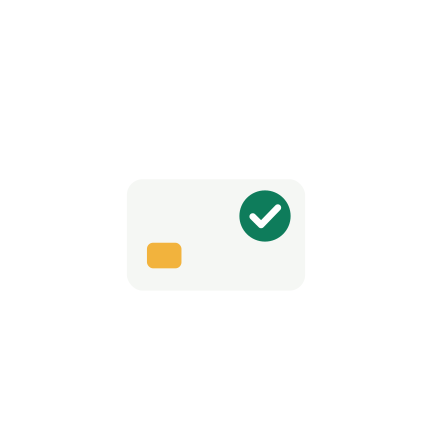
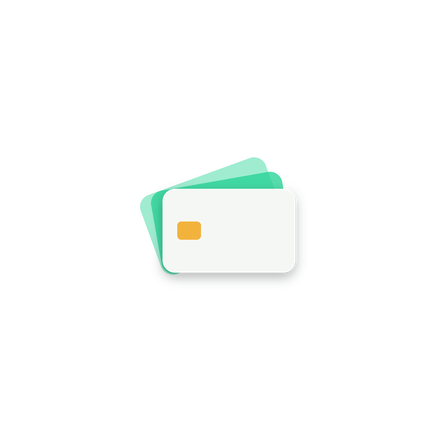
Cambia el icono a tres tarjetas en abanico, con un solo estilo
El icono anterior se veía genérico. Ahora son tres tarjetas en proporción
real, en abanico; al frente, blanca con sombra y su chip, la que Tino
elige, que se lee sobre el jade y sobre fondos claros u oscuros. Un solo
script genera desde la misma geometría los iconos de las tiendas, las
capas de Android, el splash y los SVG con y sin fondo; LogoTino dibuja la
misma figura con los roles nuevos logoAtras y logoChip (D94).

Changed region(s): [[0.3009, 0.3611, 0.6921, 0.662]]

diff --git a/src/diseno/LogoTino.tsx b/src/diseno/LogoTino.tsx
@@ -1,17 +1,23 @@
-import Svg, { Circle, Path, Rect } from 'react-native-svg';
+import Svg, { Rect } from 'react-native-svg';
 import { useTema } from './useTema';
 
-// El ícono de Tino sin su fondo verde (fuente: assets/iconos/fuente-icono.svg), con los colores
-// del tema para que se lea en claro y oscuro: la tarjeta elegida en jade, las demás detrás.
+// El ícono de Tino sin su fondo verde (decisión D94; geometría de herramientas/iconos/generar_iconos.py):
+// tres tarjetas en abanico, en el mismo estilo que el ícono de las tiendas. Al frente, blanca y con su
+// chip, la tarjeta que Tino elige; detrás, las demás en jade vivo. Se lee en claro y en oscuro.
+const TARJETA = { x: 138, y: 212, width: 236, height: 149, rx: 22 };
+const PIVOTE = '168 352';
+
 export function LogoTino({ tamano = 64 }: { tamano?: number }) {
   const tema = useTema();
   return (
-    <Svg width={tamano} height={tamano} viewBox="86 96 340 340" accessibilityElementsHidden importantForAccessibility="no-hide-descendants">
-      <Rect x={118} y={126} width={300} height={188} rx={26} fill={tema.color.primario} fillOpacity={0.28} transform="rotate(-9 268 220)" />
-      <Rect x={96} y={182} width={320} height={200} rx={28} fill={tema.color.primario} />
-      <Rect x={132} y={296} width={62} height={46} rx={11} fill={tema.color.recompensaPunto} />
-      <Circle cx={344} cy={248} r={46} fill={tema.color.sobrePrimario} />
-      <Path d="M322 249l15 15 30-31" fill="none" stroke={tema.color.primario} strokeWidth={12} strokeLinecap="round" strokeLinejoin="round" />
+    <Svg width={tamano} height={tamano} viewBox="83 110 300 300" accessibilityElementsHidden importantForAccessibility="no-hide-descendants">
+      <Rect {...TARJETA} fill={tema.color.logoAtras} fillOpacity={0.45} transform={`rotate(-20 ${PIVOTE})`} />
+      <Rect {...TARJETA} fill={tema.color.logoAtras} fillOpacity={0.8} transform={`rotate(-10 ${PIVOTE})`} />
+      {/* Sombra en dos capas: los filtros de react-native-svg no se dibujan bien en Android. */}
+      <Rect {...TARJETA} y={TARJETA.y + 10} fill={tema.color.velo} fillOpacity={0.08} />
+      <Rect {...TARJETA} y={TARJETA.y + 5} fill={tema.color.velo} fillOpacity={0.12} />
+      <Rect {...TARJETA} fill={tema.color.fondoLogo} />
+      <Rect x={164} y={270} width={42} height={32} rx={7} fill={tema.color.logoChip} />
     </Svg>
   );
 }

diff --git a/herramientas/iconos/generar_iconos.py b/herramientas/iconos/generar_iconos.py
@@ -1,0 +1,163 @@
+# Genera todos los iconos de Tino desde una sola geometría (decisión D94): tres tarjetas en
+# abanico, en proporción real (85.6 × 54 mm); al frente la que Tino elige, con su chip. Un solo
+# estilo en todas partes: la del frente blanca con sombra, que se lee sobre el jade, sobre fondos
+# claros y sobre oscuros.
+#
+# Uso, desde la raíz del repositorio: python herramientas/iconos/generar_iconos.py (requiere Pillow).
+# Escribe en assets/iconos/: fuente-icono.svg, tino-tarjetas.svg, tino-tarjetas-monocromo.svg,
+# tino-tarjetas.png, app-store-1024.png, play-store-512.png, android-fondo.png,
+# android-primer-plano.png, android-monocromo.png y splash.png.
+import math
+from PIL import Image, ImageDraw, ImageFilter
+
+DESTINO = 'assets/iconos'
+
+# Colores base de src/diseno/tokens.json.
+JADE_ARRIBA, JADE_ABAJO = '#12916A', '#0B6B4E'  # degradado del fondo
+JADE_VIVO = '#2BD49A'  # jadeVivo
+ORO = '#F2B33D'        # oro
+PAPEL = '#F5F7F4'      # papel
+TINTA = '#0D1B16'      # tinta
+
+# Geometría en un lienzo de 512: la tarjeta, su chip y el giro de las dos de atrás alrededor de
+# la esquina inferior izquierda, como cartas en la mano.
+TARJETA = (138, 212, 236, 149)  # x, y, ancho, alto (236 / 149 ≈ 85.6 / 54)
+RADIO = 22
+CHIP = (164, 270, 42, 32, 7)    # x, y, ancho, alto, radio
+PIVOTE = (168, 352)
+ATRAS = [(-20, 0.45), (-10, 0.8)]  # grados y opacidad, de la más lejana a la más cercana
+
+
+def esquinas(angulo):
+    x, y, w, h = TARJETA
+    a = math.radians(angulo)
+    px, py = PIVOTE
+    for cx, cy in ((x, y), (x + w, y), (x, y + h), (x + w, y + h)):
+        dx, dy = cx - px, cy - py
+        yield px + dx * math.cos(a) - dy * math.sin(a), py + dx * math.sin(a) + dy * math.cos(a)
+
+
+# Caja del abanico, para centrarlo en el lienzo.
+_puntos = [p for angulo in [0] + [a for a, _ in ATRAS] for p in esquinas(angulo)]
+CAJA = (min(p[0] for p in _puntos), min(p[1] for p in _puntos), max(p[0] for p in _puntos), max(p[1] for p in _puntos))
+CENTRO = ((CAJA[0] + CAJA[2]) / 2, (CAJA[1] + CAJA[3]) / 2)
+
+
+def rgba(h, a=1.0):
+    return (int(h[1:3], 16), int(h[3:5], 16), int(h[5:7], 16), int(round(a * 255)))
+
+
+# ---------- SVG ----------
+
+def svg_tarjetas(frente, atras, chip, sombra):
+    """Las tres tarjetas centradas en el lienzo de 512."""
+    x, y, w, h = TARJETA
+    cx, cy, cw, ch, cr = CHIP
+    mover = f'translate({256 - CENTRO[0]:.1f} {256 - CENTRO[1]:.1f})'
+    filas = [f'<g transform="{mover}">']
+    for angulo, opacidad in ATRAS:
+        filas.append(f'  <rect x="{x}" y="{y}" width="{w}" height="{h}" rx="{RADIO}" fill="{atras}" fill-opacity="{opacidad}" transform="rotate({angulo} {PIVOTE[0]} {PIVOTE[1]})"/>')
+    filas.append(f'  <g{" filter=\"url(#sombra)\"" if sombra else ""}>')
+    filas.append(f'    <rect x="{x}" y="{y}" width="{w}" height="{h}" rx="{RADIO}" fill="{frente}"/>')
+    if chip:
+        filas.append(f'    <rect x="{cx}" y="{cy}" width="{cw}" height="{ch}" rx="{cr}" fill="{chip}"/>')
+    filas.append('  </g>')
+    filas.append('</g>')
+    return '\n'.join('  ' + f for f in filas)
+
+
+def escribir_svg():
+    sombra = (f'    <filter id="sombra" x="-30%" y="-30%" width="160%" height="170%">\n'
+              f'      <feDropShadow dx="0" dy="8" stdDeviation="10" flood-color="{TINTA}" flood-opacity="0.32"/>\n'
+              f'    </filter>\n')
+    fondo = (f'    <linearGradient id="fondo" x1="0" y1="0" x2="0" y2="1">\n'
+             f'      <stop offset="0" stop-color="{JADE_ARRIBA}"/>\n      <stop offset="1" stop-color="{JADE_ABAJO}"/>\n'
+             f'    </linearGradient>\n')
+    cabeza = '<svg xmlns="http://www.w3.org/2000/svg" viewBox="0 0 512 512" width="512" height="512">\n'
+    with open(f'{DESTINO}/fuente-icono.svg', 'w', encoding='utf-8') as f:
+        f.write(cabeza + '  <!-- Icono de Tino (D94). Lo genera herramientas/iconos/generar_iconos.py: no editar a mano. -->\n'
+                f'  <defs>\n{fondo}{sombra}  </defs>\n  <rect width="512" height="512" fill="url(#fondo)"/>\n'
+                + svg_tarjetas(PAPEL, JADE_VIVO, ORO, True) + '\n</svg>\n')
+    with open(f'{DESTINO}/tino-tarjetas.svg', 'w', encoding='utf-8') as f:
+        f.write(cabeza + '  <!-- Tarjetas de Tino sin fondo (D94). Generado: no editar a mano. -->\n'
+                f'  <defs>\n{sombra}  </defs>\n' + svg_tarjetas(PAPEL, JADE_VIVO, ORO, True) + '\n</svg>\n')
+    with open(f'{DESTINO}/tino-tarjetas-monocromo.svg', 'w', encoding='utf-8') as f:
+        f.write(cabeza + '  <!-- Tarjetas de Tino en una sola tinta (D94). Generado: no editar a mano. -->\n'
+                + svg_tarjetas('#FFFFFF', '#FFFFFF', None, False) + '\n</svg>\n')
+
+
+# ---------- PNG ----------
+
+S = 4  # sobremuestreo para bordes suaves
+
+
+def tarjetas(lado, escala, frente, atras, chip, sombra, centro=None):
+    """Capa RGBA de lado×lado con el abanico; `escala` es el ancho del icono de 512 en píxeles."""
+    N = lado * S
+    k = escala * S / 512
+    ox = (centro[0] if centro else lado / 2) * S - CENTRO[0] * k
+    oy = (centro[1] if centro else lado / 2) * S - CENTRO[1] * k
+    x, y, w, h = TARJETA
+
+    def una(color, opacidad=1.0):
+        capa = Image.new('RGBA', (N, N), (0, 0, 0, 0))
+        ImageDraw.Draw(capa).rounded_rectangle([ox + x * k, oy + y * k, ox + (x + w) * k, oy + (y + h) * k], radius=RADIO * k, fill=rgba(color, opacidad))
+        return capa
+
+    pivote = (ox + PIVOTE[0] * k, oy + PIVOTE[1] * k)
+    final = Image.new('RGBA', (N, N), (0, 0, 0, 0))
+    for angulo, opacidad in ATRAS:
+        # rotate() de PIL gira en sentido contrario al SVG.
+        final = Image.alpha_composite(final, una(atras, opacidad).rotate(-angulo, center=pivote, resample=Image.BICUBIC))
+    frente_capa = una(frente)
+    if chip:
+        cx, cy, cw, ch, cr = CHIP
+        ImageDraw.Draw(frente_capa).rounded_rectangle([ox + cx * k, oy + cy * k, ox + (cx + cw) * k, oy + (cy + ch) * k], radius=cr * k, fill=rgba(chip))
+    if sombra:
+        alfa = frente_capa.split()[3].point(lambda a: int(a * 0.32))
+        sombra_capa = Image.new('RGBA', (N, N), rgba(TINTA, 0))
+        sombra_capa.putalpha(alfa)
+        sombra_capa = sombra_capa.transform((N, N), Image.AFFINE, (1, 0, 0, 0, 1, -8 * k)).filter(ImageFilter.GaussianBlur(10 * k))
+        final = Image.alpha_composite(final, sombra_capa)
+    final = Image.alpha_composite(final, frente_capa)
+    return final.resize((lado, lado), Image.LANCZOS)
+
+
+def degradado(lado):
+    arriba, abajo = rgba(JADE_ARRIBA), rgba(JADE_ABAJO)
+    fondo = Image.new('RGBA', (lado, lado))
+    d = ImageDraw.Draw(fondo)
+    for fila in range(lado):
+        t = fila / (lado - 1)
+        d.line([(0, fila), (lado, fila)], fill=tuple(int(arriba[i] + (abajo[i] - arriba[i]) * t) for i in range(4)))
+    return fondo
+
+
+def icono_con_fondo(lado):
+    return Image.alpha_composite(degradado(lado), tarjetas(lado, lado, PAPEL, JADE_VIVO, ORO, True)).convert('RGB')
+
+
+def escribir_png():
+    icono_con_fondo(1024).save(f'{DESTINO}/app-store-1024.png', optimize=True)  # sin transparencia ni esquinas
+    icono_con_fondo(512).save(f'{DESTINO}/play-store-512.png', optimize=True)
+    tarjetas(1024, 1024, PAPEL, JADE_VIVO, ORO, True).save(f'{DESTINO}/tino-tarjetas.png', optimize=True)
+
+    # Icono adaptativo de Android: lienzo de 108 dp (432 px a 4x) del que se ven 72 dp; el icono de
+    # 512 se ajusta a esos 72 dp, así el abanico queda dentro de la zona segura de 66 dp.
+    visible = 432 * 72 / 108
+    degradado(432).save(f'{DESTINO}/android-fondo.png', optimize=True)
+    tarjetas(432, visible, PAPEL, JADE_VIVO, ORO, True).save(f'{DESTINO}/android-primer-plano.png', optimize=True)
+    tarjetas(432, visible, '#FFFFFF', '#FFFFFF', None, False).save(f'{DESTINO}/android-monocromo.png', optimize=True)
+
+    # Splash (Android 12+): recorta en un círculo de 2/3 del lienzo; el abanico tiene que caber con aire.
+    lado_caja = max(CAJA[2] - CAJA[0], CAJA[3] - CAJA[1])
+    diagonal = math.hypot(CAJA[2] - CAJA[0], CAJA[3] - CAJA[1])
+    escala = 1024 * (2 / 3) * 0.9 / diagonal * 512
+    tarjetas(1024, escala, PAPEL, JADE_VIVO, ORO, True).save(f'{DESTINO}/splash.png', optimize=True)
+    assert lado_caja  # la caja nunca es vacía
+
+
+if __name__ == '__main__':
+    escribir_svg()
+    escribir_png()
+    print('Iconos generados en', DESTINO)

diff --git a/docs/progreso.md b/docs/progreso.md
@@ -343,4 +343,5 @@ Criterios de la especificación:
 | D91 | 2026-09-29 | Ajustes, Privacidad queda en el interruptor "Compartir datos de uso" ("Nos ayudan a mejorar Tino y tu experiencia"), una frase ("Son datos anónimos sobre cómo usas la app. Nunca incluyen datos sensibles, como montos, ni nada que te identifique.") y los enlaces a la política y los términos. Se quitan la lista de qué incluye y qué no (y la hoja "Qué se comparte" del onboarding y de Inicio, que pasan a enlazar la política) y "Restablecer identificador": el identificador se sigue viendo en "Ver mis datos", para pedir por correo que se borren los datos de uso, y "Borrar todo" crea uno nuevo. Se aparta de la sección 10 técnica ("reiniciable desde Ajustes") | La lista era demasiado texto para una pantalla de ajustes: el detalle está en la política, a un toque, que es la información por capas que usan las apps grandes y que cumple el consentimiento informado. Restablecer el identificador no le sirve al usuario común; quien cuida su privacidad tiene el interruptor, "Borrar todo" y el correo. Ninguna ley ni tienda lo pide |
 | D92 | 2026-09-29 | Ajustes enlaza solo "Ayuda y soporte"; la política y los términos viven en Ajustes, Privacidad (y siguen en la bienvenida y el muro de pago) | Un solo lugar para lo legal en vez de dos filas repetidas. Google Play pide la política dentro de la app y Apple los dos documentos en la compra: los dos se cumplen |
 | D93 | 2026-09-30 | En Android, crear un respaldo ofrece "Guardar en el teléfono" (selector de carpetas del sistema, `Directory.pickDirectoryAsync`) y "Enviar a otra app" (hoja de compartir). En iPhone sigue un solo botón, porque su hoja de compartir trae "Guardar en Archivos". Si el usuario cancela la carpeta, no cuenta como respaldo | La hoja de compartir de Android no ofrece guardar en el teléfono: solo muestra las apps instaladas (Drive, Gmail, Quick Share). El selector de carpetas no necesita el permiso de almacenamiento que se quitó en D89 |
+| D94 | 2026-10-01 | Icono nuevo: tres tarjetas en abanico, en proporción real (85.6 × 54 mm), sobre el jade de siempre; al frente, la que Tino elige, blanca con su chip dorado, y detrás dos en jade vivo translúcido. Reemplaza las dos tarjetas con el sello de acierto. Un solo script, `herramientas/iconos/generar_iconos.py`, genera desde la misma geometría los PNG de las tiendas, las capas de Android, el splash, el SVG fuente y el logo sin fondo (SVG y PNG) y monocromo. Un solo estilo en todas partes: la tarjeta del frente blanca con sombra, que se lee sobre el jade, en fondos claros, grises y oscuros (se descartó una versión con la tarjeta en jade para fondos claros). `LogoTino` usa los roles nuevos `logoAtras` y `logoChip` y dibuja la sombra con dos capas, porque los filtros de react-native-svg no se ven bien en Android; reemplaza a `generar_splash.py`. `LogoTino` y la página de Tino en polancolabs.com usan la misma figura | El icono anterior se veía genérico. Se eligió entre tres variantes (pila diagonal, perspectiva y abanico) revisadas a 24, 40 y 64 px, en la máscara redonda, monocromo y splash; el abanico transmite elegir una tarjeta entre varias. Una geometría única evita que los formatos se desvíen entre sí |
 | D11 | 2026-09-25 | (Sin uso en pantalla desde D30.) La barra de orden desempata manteniendo el orden recomendado | La sección 5.4 no define el desempate de la barra; así el resultado es estable y predecible |

diff --git a/docs/documentacion-tecnica.md b/docs/documentacion-tecnica.md
@@ -325,9 +325,14 @@ Las [maquetas de la pantalla de inicio](https://claude.ai/artifact/D4pi5Mkn44k2A
 | `assets/iconos/app-store-1024.png` | Icono de App Store y de iOS | 1024×1024, sin transparencia, sin esquinas redondeadas |
 | `assets/iconos/play-store-512.png` | Ficha de Google Play | 512×512 |
 | `assets/iconos/android-fondo.png` | Icono adaptativo: capa de fondo | 432×432 (108 dp a 4x) |
-| `assets/iconos/android-primer-plano.png` | Icono adaptativo: tarjetas y sello, dentro de la zona segura de 66 dp | 432×432 con transparencia |
+| `assets/iconos/android-primer-plano.png` | Icono adaptativo: las tarjetas en abanico, dentro de la zona segura de 66 dp | 432×432 con transparencia |
 | `assets/iconos/android-monocromo.png` | Iconos temáticos de Android 13 en adelante | 432×432 con transparencia |
-| `assets/iconos/fuente-icono.svg` | Fuente vectorial para futuras exportaciones | SVG |
+| `assets/iconos/fuente-icono.svg` | Icono con su fondo, en vectores | SVG |
+| `assets/iconos/tino-tarjetas.svg` y `tino-tarjetas.png` | Logo sin fondo, con el mismo estilo del icono (tarjeta del frente blanca con sombra); se lee en fondos claros y oscuros | SVG y 1024×1024 con transparencia |
+| `assets/iconos/tino-tarjetas-monocromo.svg` | Logo en una sola tinta | SVG |
+| `assets/iconos/splash.png` | Pantalla de arranque: las tarjetas sobre el jade, dentro del círculo de Android 12+ | 1024×1024 con transparencia |
+
+Todos salen de una sola geometría, tres tarjetas en abanico en proporción real (decisión D94 de `docs/progreso.md`), con `python herramientas/iconos/generar_iconos.py`; no se editan a mano. `LogoTino` dibuja la misma figura con los colores del tema.
 
 En `app.json`: `icon` apunta al PNG de 1024; `android.adaptiveIcon` usa `foregroundImage`, `backgroundImage` y `monochromeImage` con los archivos de Android. Las variantes oscura y tintada de iOS se agregan antes del lanzamiento a partir del SVG fuente.
 
